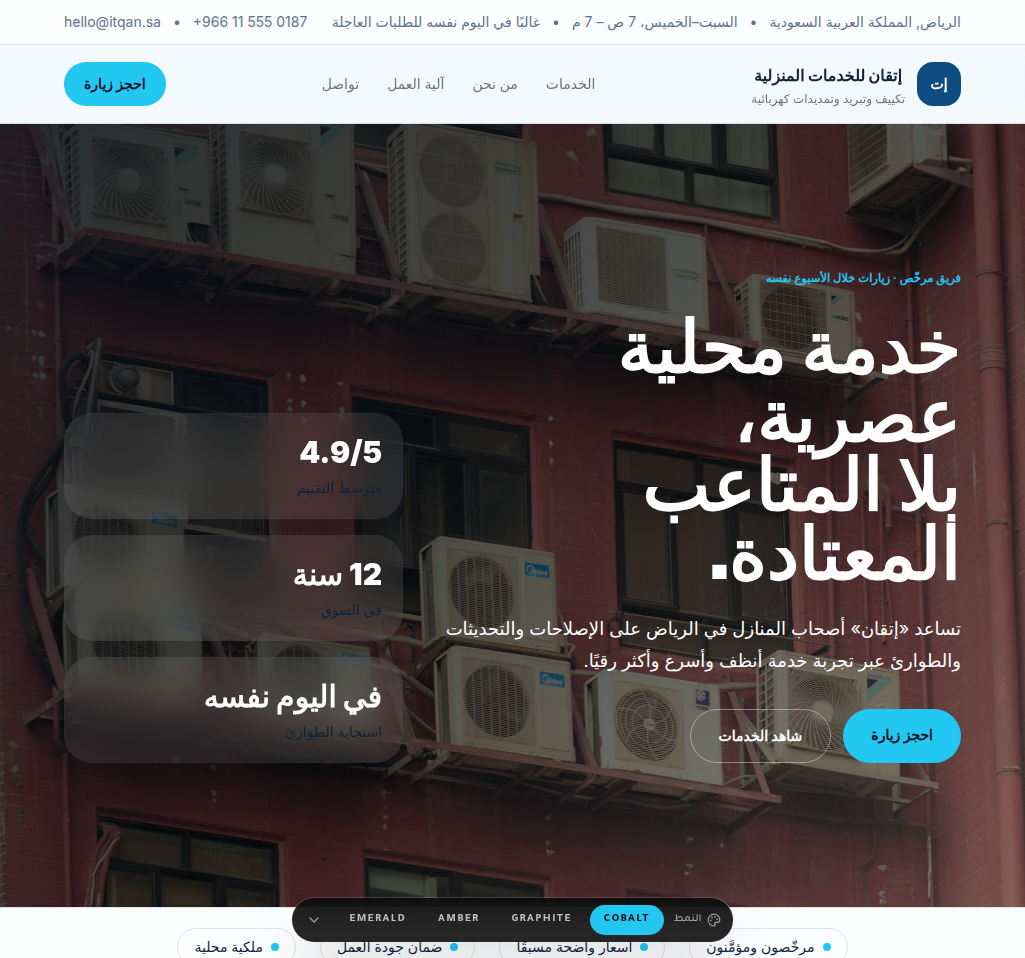
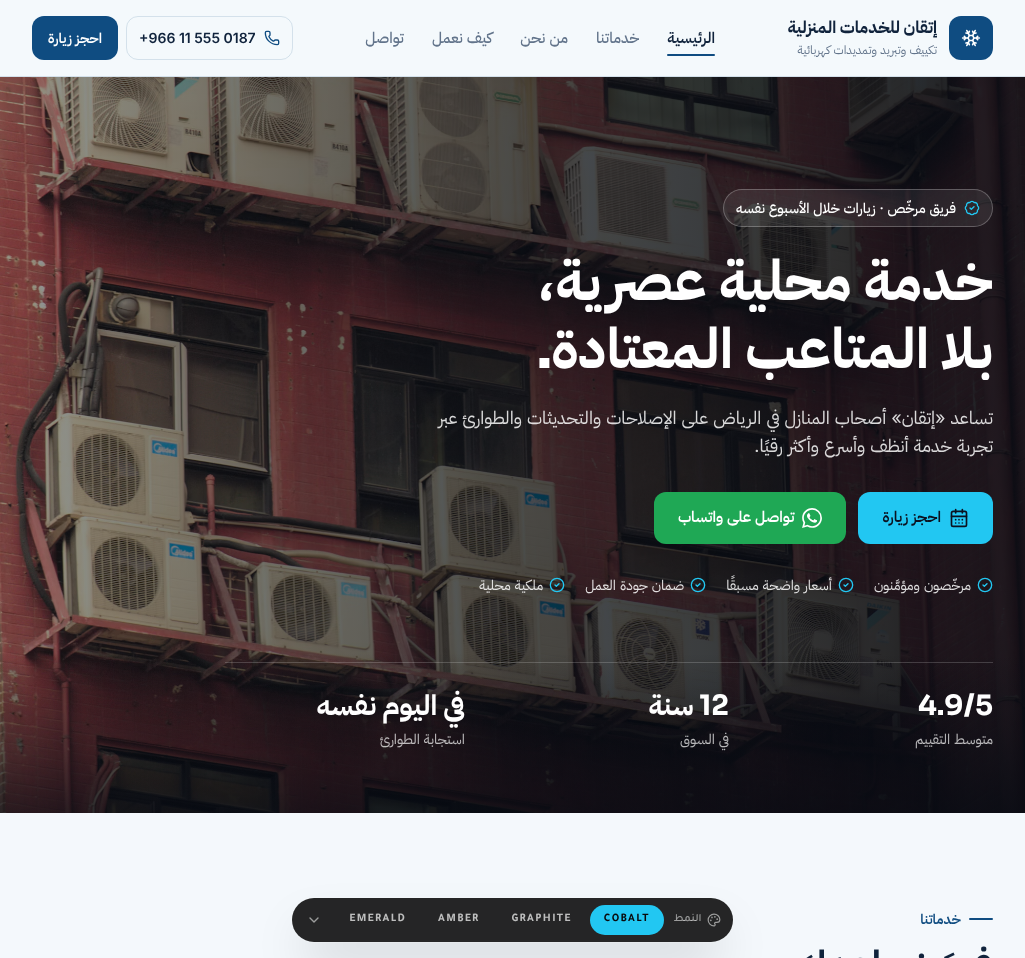
Services: new cover picture, white WhatsApp button on green, home animation fields (#34)
* Services: white WhatsApp button on green accents; home animation fills WhatsApp and Instagram

The hero's WhatsApp button turns white when the accent is itself a green
(the emerald preset, or an owner's own green), so it no longer reads as a
second copy of the accent button. The home page's services wizard run now
types the WhatsApp and Instagram fields the real wizard asks for.

Claude-Session: https://claude.ai/code/session_01LyvGavAYpX6EAtPkeFnEd8

* Services cover: retake from the new template

The cover and the 560px picker thumbnail were still the old services
template. Retaken from /demo/services at the same 1025x958 frame, cobalt.

Claude-Session: https://claude.ai/code/session_01LyvGavAYpX6EAtPkeFnEd8

---------

diff --git a/components/theme/services/ServicesPreview.tsx b/components/theme/services/ServicesPreview.tsx
@@ -41,6 +41,9 @@ type Ctx = {
   wa: string | null
   /** The owner's uploaded logo, if any. */
   logo?: string
+  /** The accent is itself a green, so a green WhatsApp button beside it
+   *  would read as a second copy of the same button. */
+  waOnWhite: boolean
 }
 const PageCtx = createContext<Ctx | null>(null)
 function usePage(): Ctx {
@@ -83,6 +86,18 @@ function enter(rm: boolean, delay = 0) {
 // Arabic glyphs take the Arabic face; Latin letters and digits keep the preset's.
 const ARABIC_FACE = '"IBM Plex Sans Arabic", system-ui, sans-serif'
 const WA_GREEN = '#1fa855'
+
+/** True when a colour is a green close enough to WhatsApp's to be mistaken for it. */
+function isGreenish(hex: string): boolean {
+  const m = /^#?([0-9a-f]{6})$/i.exec(hex.trim())
+  if (!m) return false
+  const n = parseInt(m[1], 16)
+  const r = (n >> 16) / 255, g = ((n >> 8) & 255) / 255, b = (n & 255) / 255
+  const max = Math.max(r, g, b), min = Math.min(r, g, b), d = max - min
+  if (max === 0 || d / max < 0.3 || max < 0.35) return false
+  const hue = max === r ? (60 * ((g - b) / d) + 360) % 360 : max === g ? 60 * ((b - r) / d) + 120 : 60 * ((r - g) / d) + 240
+  return hue >= 85 && hue <= 175
+}
 
 export default function ServicesPreview({
   content,
@@ -131,7 +146,7 @@ export default function ServicesPreview({
     [colors, brand, headingFont, bodyFont]
   )
 
-  const ctx: Ctx = { content, isDark, view, go, wa: whatsappChat(content), logo: logo?.trim() || undefined }
+  const ctx: Ctx = { content, isDark, view, go, wa: whatsappChat(content), logo: logo?.trim() || undefined, waOnWhite: isGreenish(colors.accent) }
 
   return (
     <PageCtx.Provider value={ctx}>
@@ -245,12 +260,13 @@ function SectionHead({ eyebrow, title, sub, center }: { eyebrow?: string; title:
   )
 }
 
-type BtnKind = 'brand' | 'accent' | 'whatsapp' | 'white' | 'outline' | 'outline-light'
+type BtnKind = 'brand' | 'accent' | 'whatsapp' | 'whatsapp-white' | 'white' | 'outline' | 'outline-light'
 function btnStyle(kind: BtnKind): React.CSSProperties {
   switch (kind) {
     case 'brand': return { background: 'var(--sv-brand)', color: 'var(--sv-on-brand)' }
     case 'accent': return { background: 'var(--sv-accent)', color: 'var(--sv-on-accent)' }
     case 'whatsapp': return { background: WA_GREEN, color: '#ffffff' }
+    case 'whatsapp-white': return { background: '#ffffff', color: '#0f172a' }
     case 'white': return { background: '#ffffff', color: '#0f172a' }
     case 'outline': return { border: '1px solid var(--sv-border)', color: 'var(--sv-text)', background: 'var(--sv-surface)' }
     case 'outline-light': return { border: '1px solid rgba(255,255,255,0.45)', color: '#ffffff', background: 'rgba(255,255,255,0.06)' }
@@ -562,7 +578,7 @@ function Header() {
 /* ─────────────────────────────────────────────────────────── hero */
 
 function Hero() {
-  const { content, wa } = usePage()
+  const { content, wa, waOnWhite } = usePage()
   const rm = !!useReducedMotion()
   const h = content.hero
   const trust = content.trust_bar?.items?.filter(Boolean).slice(0, 4) || []
@@ -602,7 +618,11 @@ function Hero() {
           <motion.div {...enter(rm, 0.28)} className="mt-8 flex flex-col gap-3 sm:flex-row">
             <Btn kind="accent" href="#quote" icon={<CalendarDays className="h-5 w-5" aria-hidden />}>{h.primary_cta || 'اطلب عرض سعر'}</Btn>
             {wa ? (
-              <Btn kind="whatsapp" href={wa} external icon={<WaGlyph />}>تواصل على واتساب</Btn>
+              waOnWhite ? (
+                <Btn kind="whatsapp-white" href={wa} external icon={<WaGlyph className="h-5 w-5 text-[#1fa855]" />}>تواصل على واتساب</Btn>
+              ) : (
+                <Btn kind="whatsapp" href={wa} external icon={<WaGlyph />}>تواصل على واتساب</Btn>
+              )
             ) : h.secondary_cta ? (
               <Btn kind="outline-light" href="#services">{h.secondary_cta}</Btn>
             ) : null}

diff --git a/components/zenya/home/templates.tsx b/components/zenya/home/templates.tsx
@@ -478,6 +478,8 @@ const S = {
   owner_name: "عبدالله الحربي",
   years: "12",
   phone: "+966 11 555 0142",
+  whatsapp: "+966 55 555 0142",
+  instagram: "@aletqan",
   email: "hello@aletqan.sa",
   availability: "من السبت إلى الخميس، 8 صباحًا — 8 مساءً",
   response: "نرد خلال ساعة في أوقات العمل",
@@ -503,7 +505,7 @@ export const services: TemplateDef = {
   ],
   empty: {
     business_name: "", category: "", city: "", area: "", owner_name: "", years: "",
-    phone: "", email: "", availability: "", response: "",
+    phone: "", whatsapp: "", email: "", instagram: "", availability: "", response: "",
     services: [], areas_served: "", differentiators: "", promo: "",
     story: "", owner_title: "", quote: "", preset: "", shots: [],
   },
@@ -526,7 +528,9 @@ export const services: TemplateDef = {
         return (
           <div className="zn-row">
             <Field label="الهاتف" t="phone" on={focus === "phone"} value={f.phone} ph="+966 11 555 0142" ltr />
+            <Field label="واتساب" t="whatsapp" on={focus === "whatsapp"} value={f.whatsapp} ph="+966 55 555 0142" ltr />
             <Field label="البريد الإلكتروني" t="email" on={focus === "email"} value={f.email} ph="hello@business.sa" ltr />
+            <Field label="إنستغرام" t="instagram" on={focus === "instagram"} value={f.instagram} ph="@yourbusiness" ltr />
             <Field label="سطر التوفّر" t="availability" on={focus === "availability"} value={f.availability} wide
               ph="من السبت إلى الخميس، 8 صباحًا — 8 مساءً" />
             <Field label="سطر وقت الاستجابة" t="response" on={focus === "response"} value={f.response} wide
@@ -607,7 +611,9 @@ export const services: TemplateDef = {
     /* 2 · التواصل والتوفّر */
     c.card(1); await c.wait(600)
     await c.type("phone", S.phone, 0.14)
+    await c.type("whatsapp", S.whatsapp, 0.14)
     await c.type("email", S.email, 0.14)
+    await c.type("instagram", S.instagram, 0.14)
     await c.type("availability", S.availability)
     await c.type("response", S.response)
     await c.beat()
